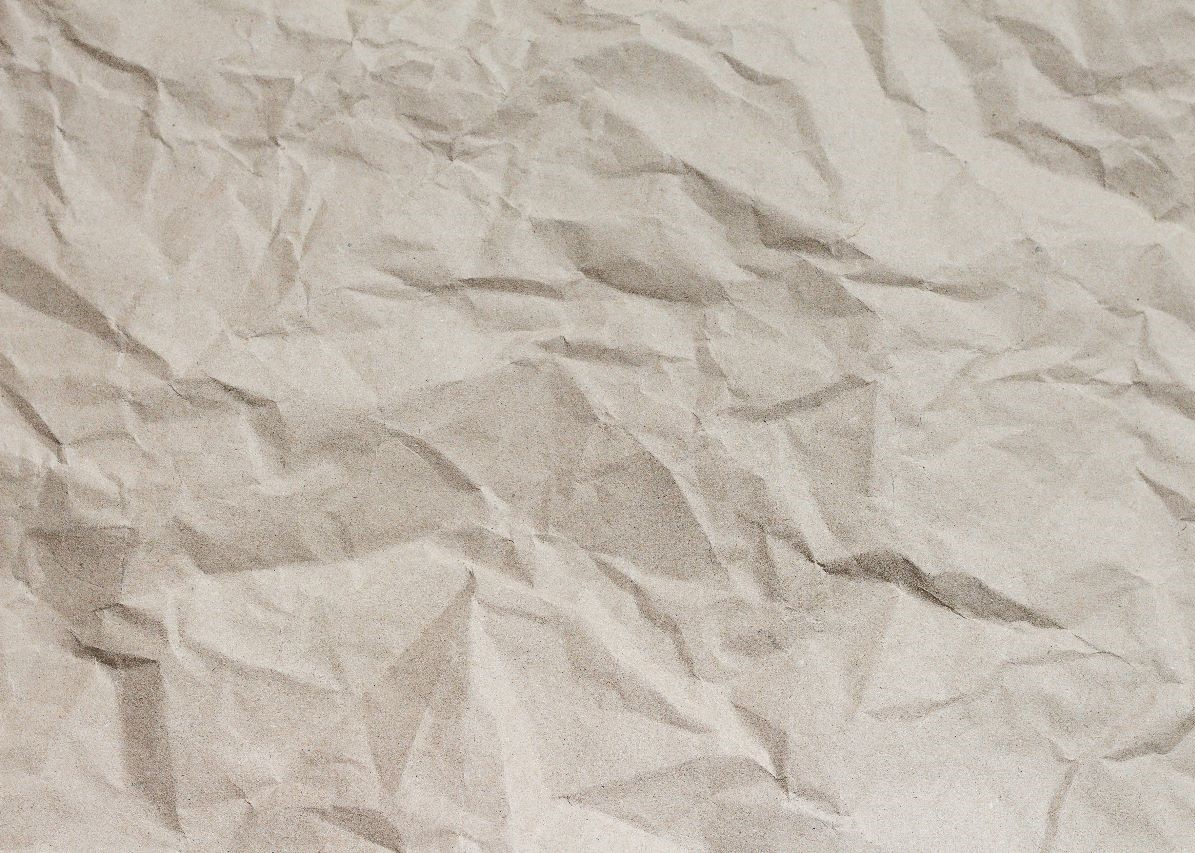
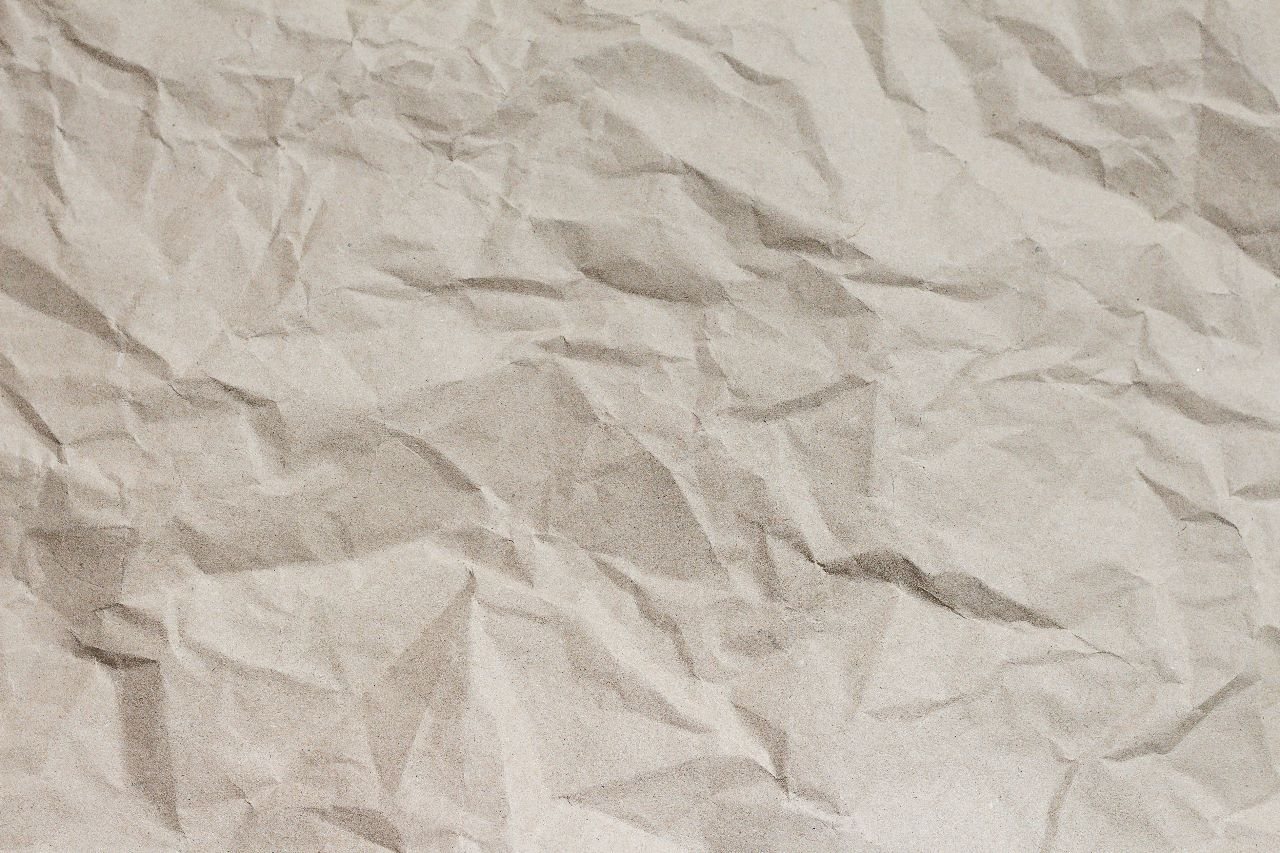
centralizado

diff --git a/css/formulario.css b/css/formulario.css
@@ -1,6 +1,6 @@
 body{
     background-image: url(../img/fundo.jpg);
-    background-size: 100%;
+    background-size:cover;
 }
 
 #h1 {
@@ -10,7 +10,7 @@ body{
     font-family:'Franklin Gothic Medium', 'Arial Narrow', Arial, sans-serif;
     font-size: 12px;
     color: black;
-    margin-bottom: 30px;
+    margin-bottom: 35px;
     background-color: rgba(109, 118, 91, 0.6);
     border-radius: 15px;
     margin-left: auto;
@@ -23,7 +23,7 @@ p {
     color: black;
     font-size: 20px;
     text-align: center;
-    margin-bottom: 45px;
+    margin-bottom: 48px;
 }
 
 #div1 {
@@ -54,7 +54,7 @@ p {
     justify-content: center;
     align-items: center;
     top: 40%;
-    margin-bottom: 15px;
+    margin-bottom: 20px;
 }
 
 #city { 
@@ -76,7 +76,7 @@ p {
     justify-content: center;
     align-items: center;
     top: 50%;
-    margin-bottom: 15px;
+    margin-bottom: 20px;
 }
 
 #table {

diff --git a/formulario.html b/formulario.html
@@ -1,5 +1,5 @@
 <!DOCTYPE html>
-<html lang="en">
+<html lang="pt-br">
 
 <head>
     <meta charset="UTF-8">
@@ -13,10 +13,10 @@
 <body>
     <div id="h1">
         <h1>Informacões para cadastro</h1>
-    </div>    
+    </div>
     <p>Preencha seus dados Abaixo,<br>
         Campo "info" conte-nos um
-        pouco mais<br>sobre você.</p>
+        pouco mais <br>sobre você.</p>
     <form>
         <div id="div1">
             <img src="img/user.png">
@@ -77,4 +77,5 @@
         <button>Enviar</button>
     </form>
 </body>
+
 </html>
